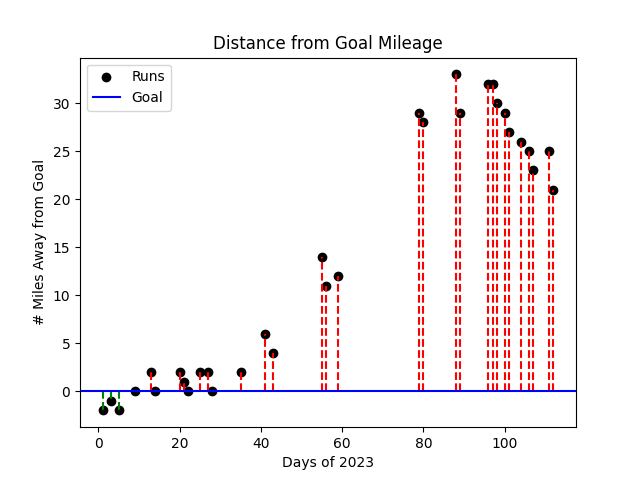
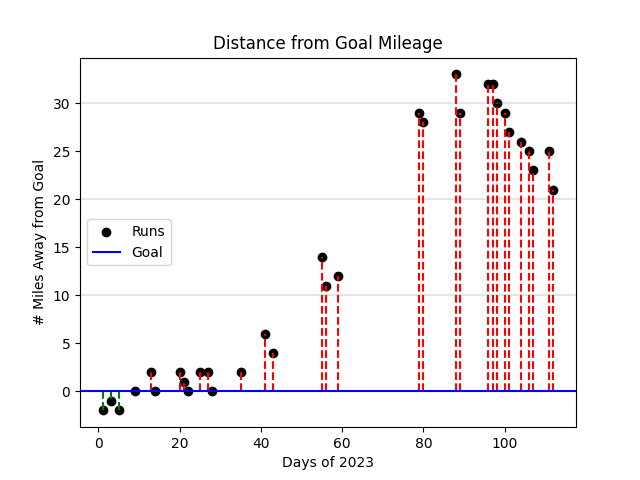
Add some lines to plot

diff --git a/progress.py b/progress.py
@@ -62,6 +62,9 @@ plot_difference = True
 
 if plot_difference:
     diff = []
+    plt.axhline(10, color='gray', alpha=0.2)
+    plt.axhline(20, color='gray', alpha=0.2)
+    plt.axhline(30, color='gray', alpha=0.2)
     for i in range(0, len(total_miles_lst)):
         diff.append(days[i] - total_miles_lst[i])
     for i in range(len(diff)):
@@ -114,6 +117,7 @@ if plot_pacing:
         # mins = int(avg_pace[i]//60)
         # secs = avg_pace[i] - mins*60
         # print(f"Day {days[i]}: {avg_pace[i]} {mins}:{secs}")
+
 
     for i in range(len(avg_pace_mins)):
         colorcode_pacing(days[i], avg_pace_mins[i])
